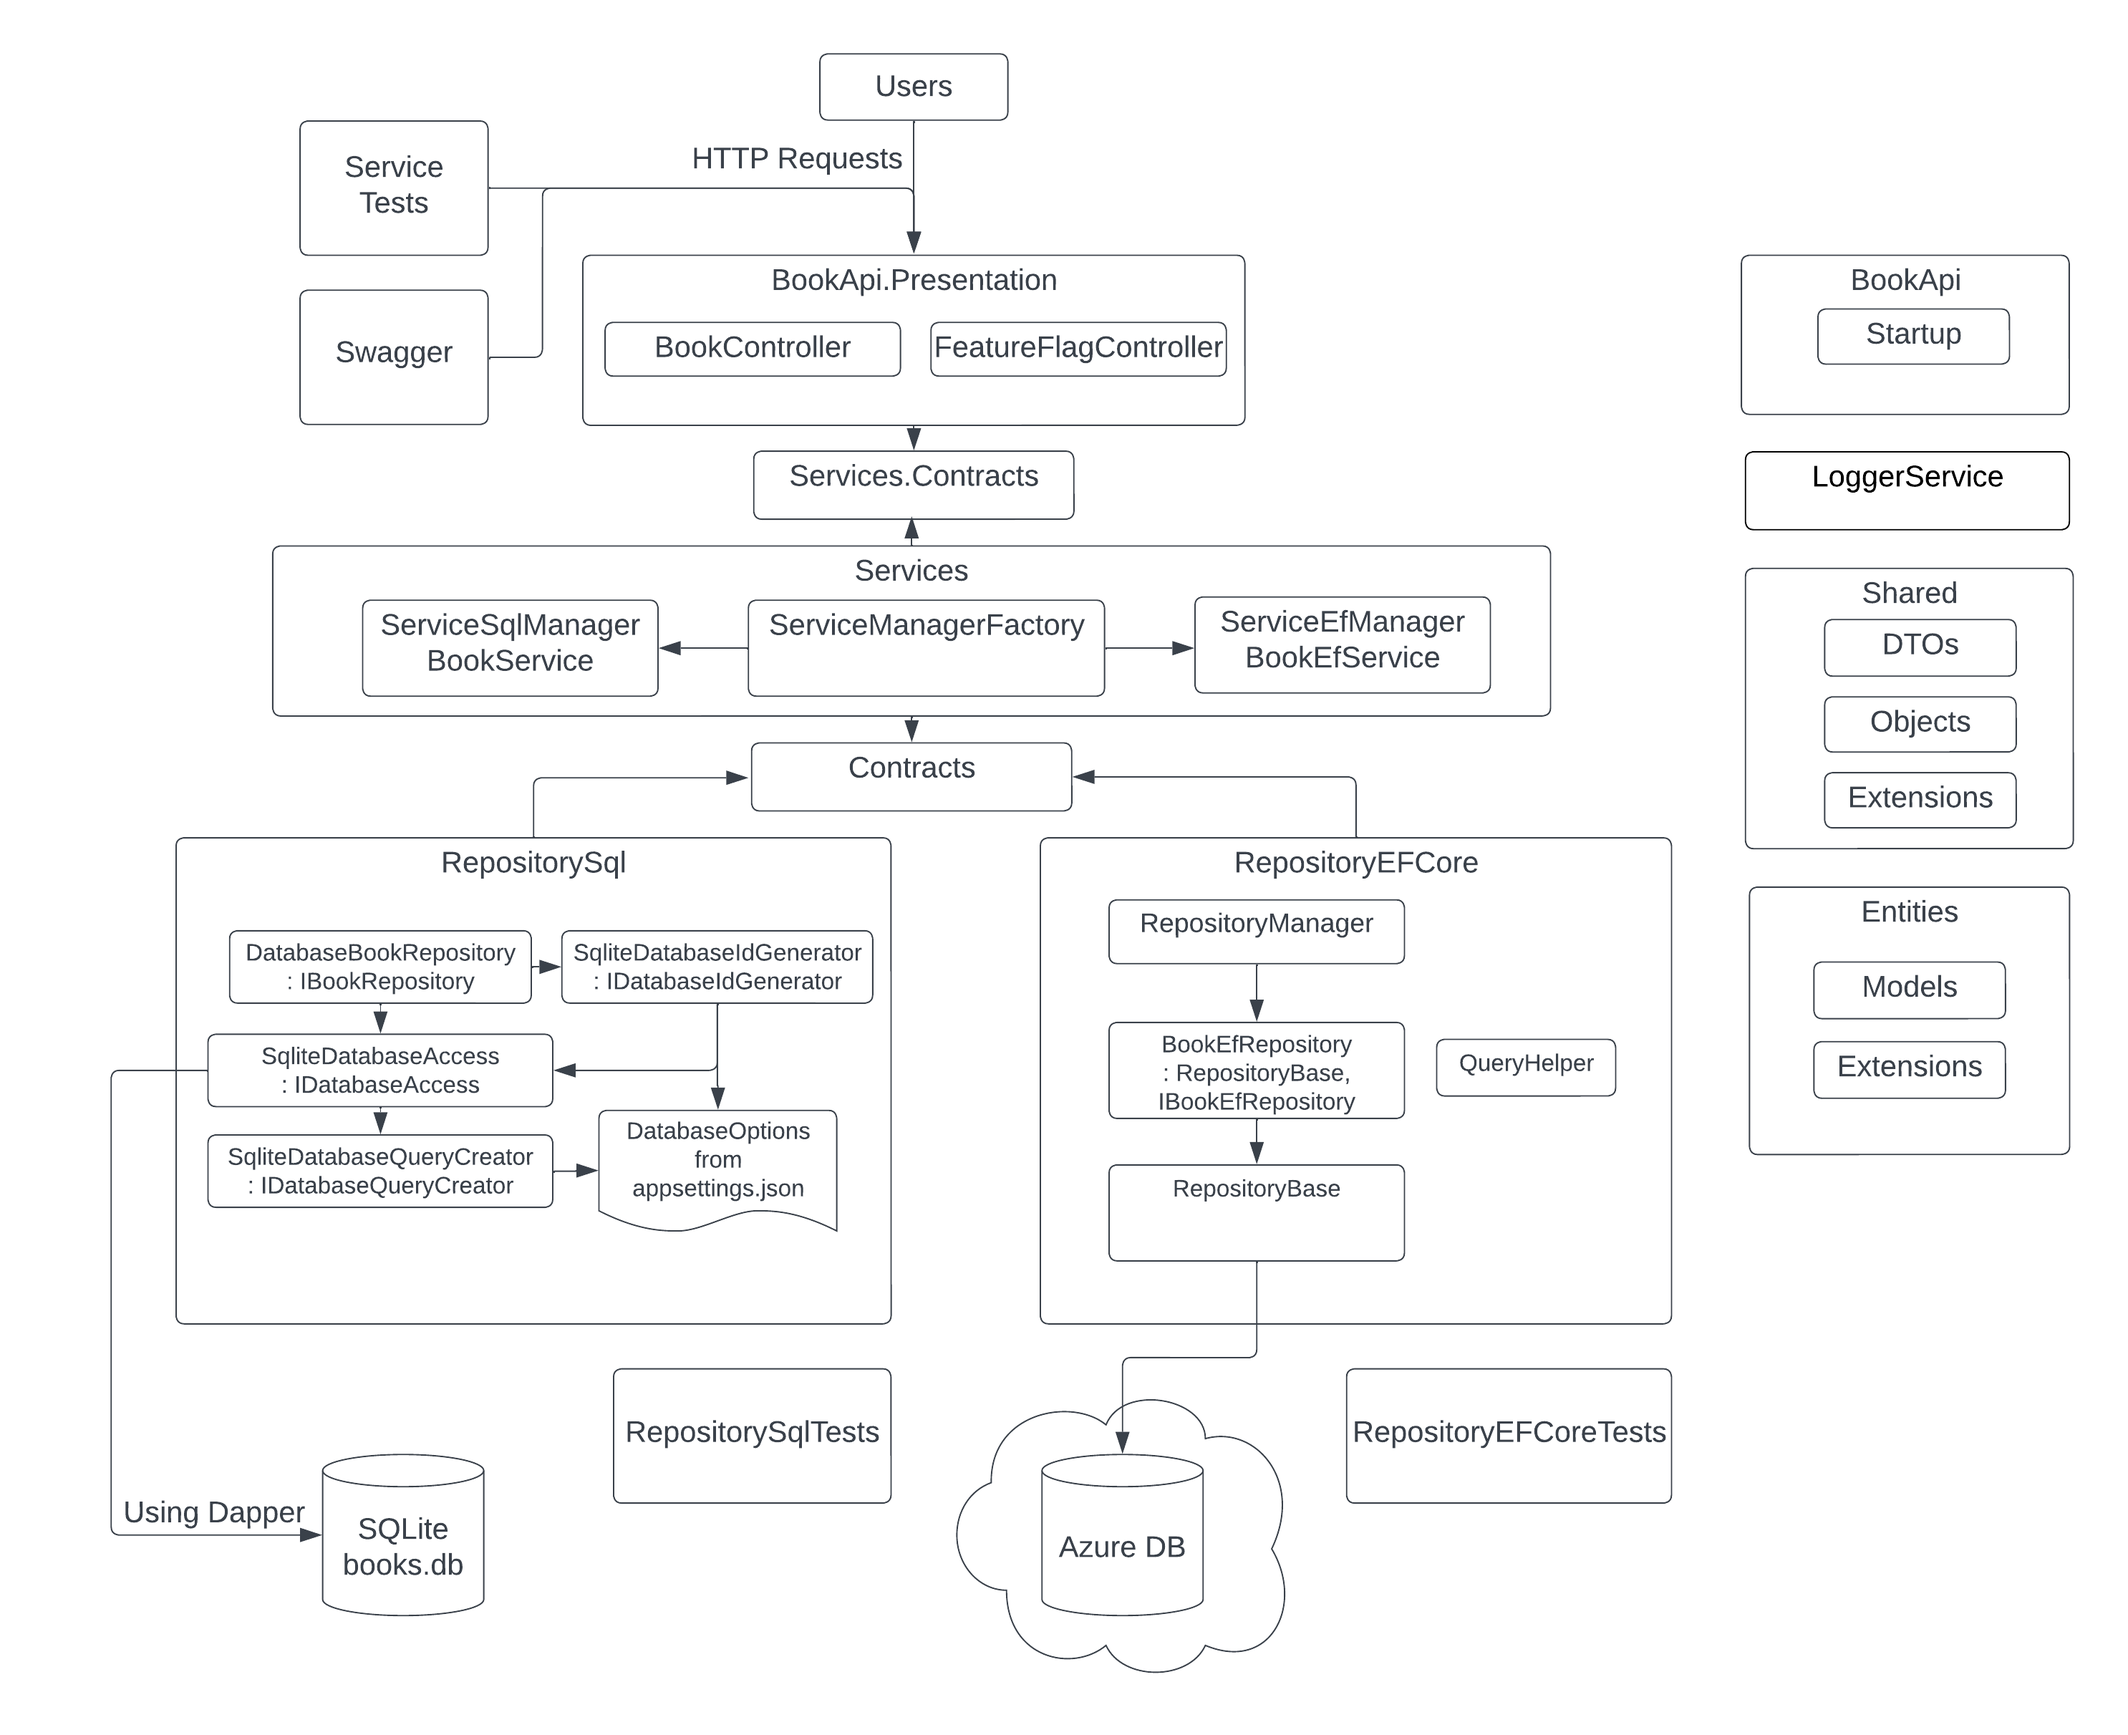
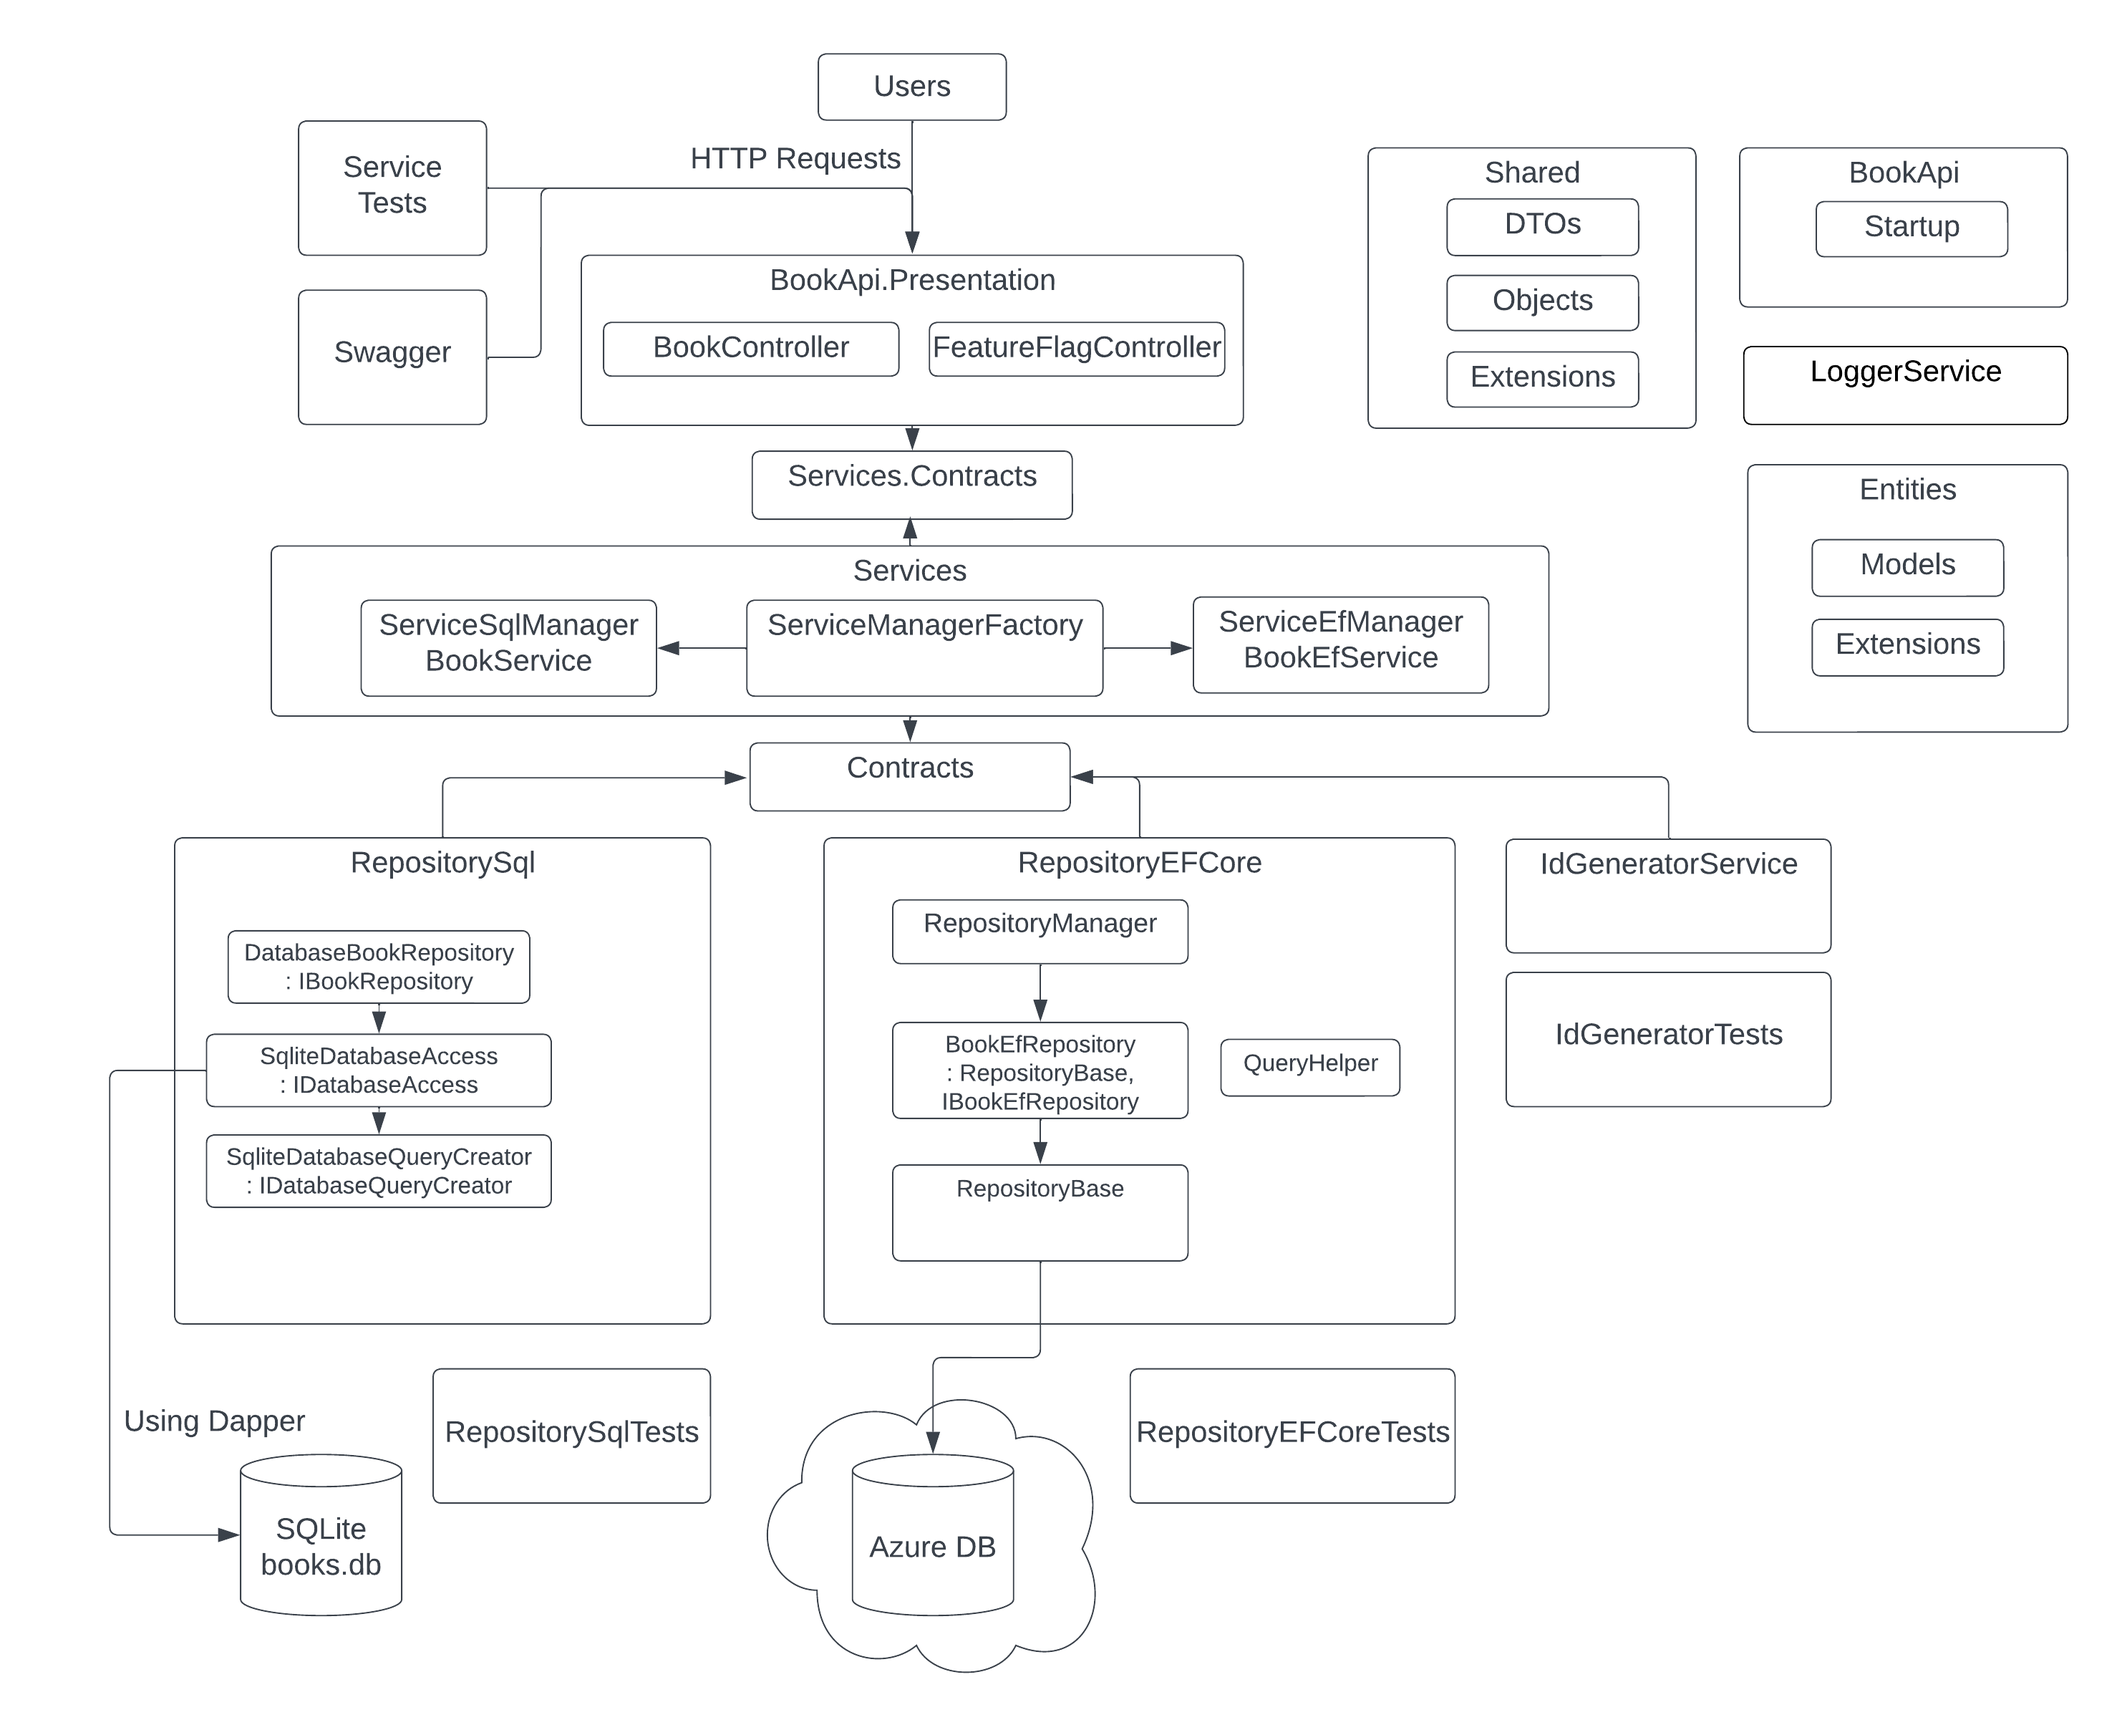
update readme and diagram

diff --git a/README.md b/README.md
@@ -1,16 +1,18 @@
 # BookManager API
 
-Ett API skrivet i C# för böcker med en SQLite fildatabas.
-Uppbyggt i tre lager med contracts emellan: presentation, service och data access.
+Ett API skrivet i C# för böcker med två olika repositories: RepositorySql som använder ren SQL och RepositoryEFCore som använder Entity Framework Core
+Uppbyggt i tre lager som kommunicerar via contracts (interfaces i separat projekt): presentation, service och data access.
 
-- Service test som täcker CRUD och Unit tests båda använts för utveckling enligt TDD (Test Driven Development)
+- Service test som täcker CRUD och Unit tests. Båda testtyperna har använts vid utvecklingen enligt TDD (Test Driven Development)
 - Github Projects använt vid utvecklingen
 - Full beskrivning av processen (se nedan)
 - Repository pattern, Options pattern, simple factory pattern, extension methods
 - Global exception handling med Middleware
 - Dynamiskt byggda SQL queries med parametrar som skyddar mot SQL Injection skickade till DAPPER för databas access
-- Dynamiskt byggda Entity Framework Core queries med unit testade expressions
+- Entity Framework Core queries byggda med unit testade expressions
 - Log service i separat LoggerService-projekt
+- FeatureFlag för att bestämma vilket repository som ska användas
+- Controller för att se status på feature flags
 
 ![Solution Flowchart](BookManager_diagram.png)
 
@@ -47,14 +49,15 @@ Se Book Manager projektet i Github Projects.
 - Middleware för ASP.NET Core (global exception handling)
 - Github Projects med Pull Request och kanban
 - Testat att bygga en query creator (SqliteDatabaseQueryCreator). Kul, men jag hade nog använt Entity Framework Core från början om jag gjort det igen
+- Arkitektur med contracts i separata projekt.
 
 ## Lessons learned
 
-- Mitt största misstag var att tänka att jag behövde namnge databasen på något speciellt sätt. Om jag hade hållit mig till ett DTO, data transfer object, och sen låtit databasens kolumner formas av mina interna datamodeller så hade jag sluppit mycket jobb.
+- Mitt största misstag var att tänka att jag behövde namnge på samma sätt som in-datan. Om jag hade hållit mig till ett DTO, data transfer object, och sen låtit databasens kolumner formas av mina interna datamodeller så hade jag sluppit en del jobb.
 - Att sätta upp service testen direkt var väl spenderad tid och TestDataHelper-klassen gjorde skapandet av testerna enkelt
 - JsonFileBookRepository var onödigt: Jag visste att jag behövde en databas till slut, så även om det inte tog lång tid att skapa var det onödigt
 - Jsonkonverteringen tog tid då jag inte var strikt när jag valde mellan NewtonSoft och den inbyggda JsonSerializern (skapade en extra JsonConverterare för DateOnly i onödan)
-- Prioritera att koden fungerar via allmänt använda verktyg som Swagger och PostMan snarare än att få testen att fungera (skapade först workaround för testen istället för att hitta riktiga problemet)
+- Prioritera att koden fungerar via allmänt använda verktyg som Swagger och PostMan snarare än att få testen att fungera (skapade först workaround för testen istället för att hitta ett riktigt problemet)
 
 # Processen
 
